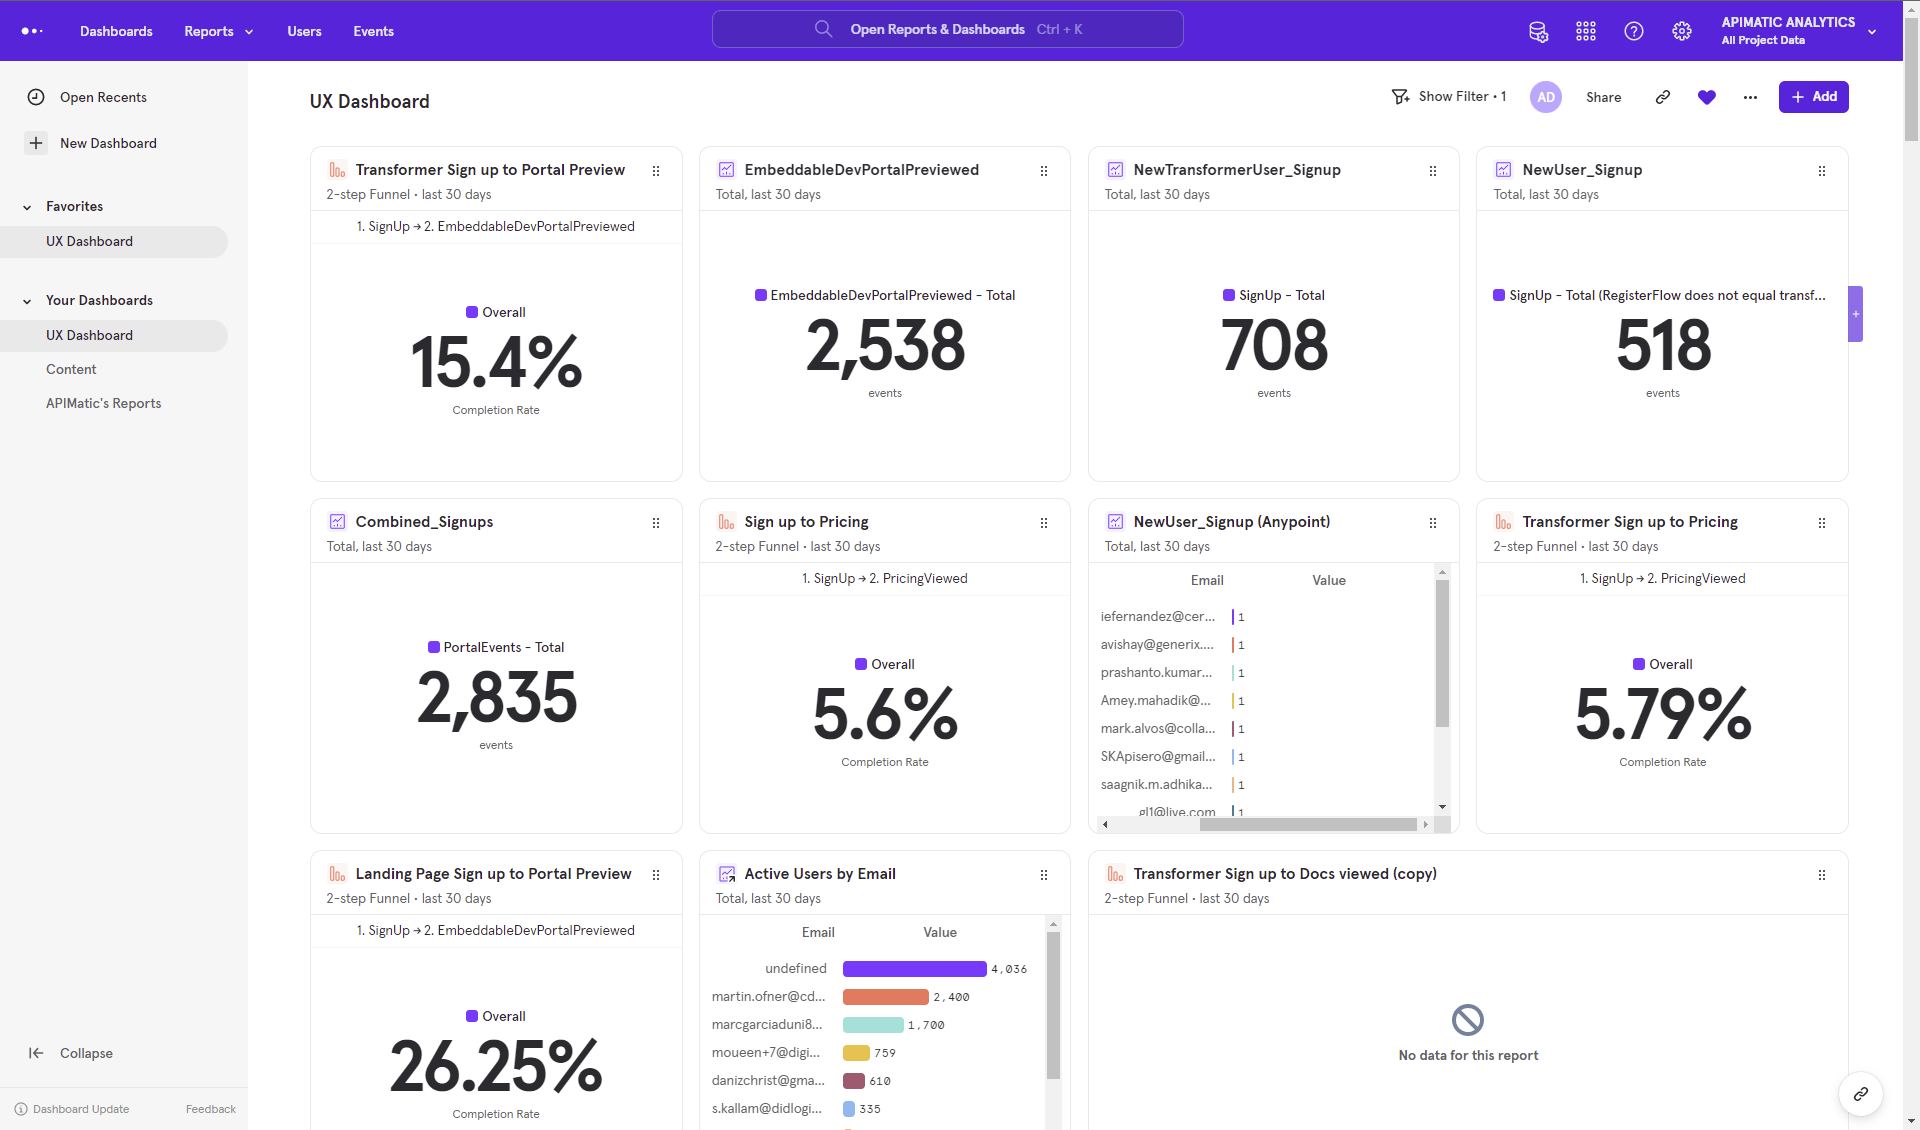
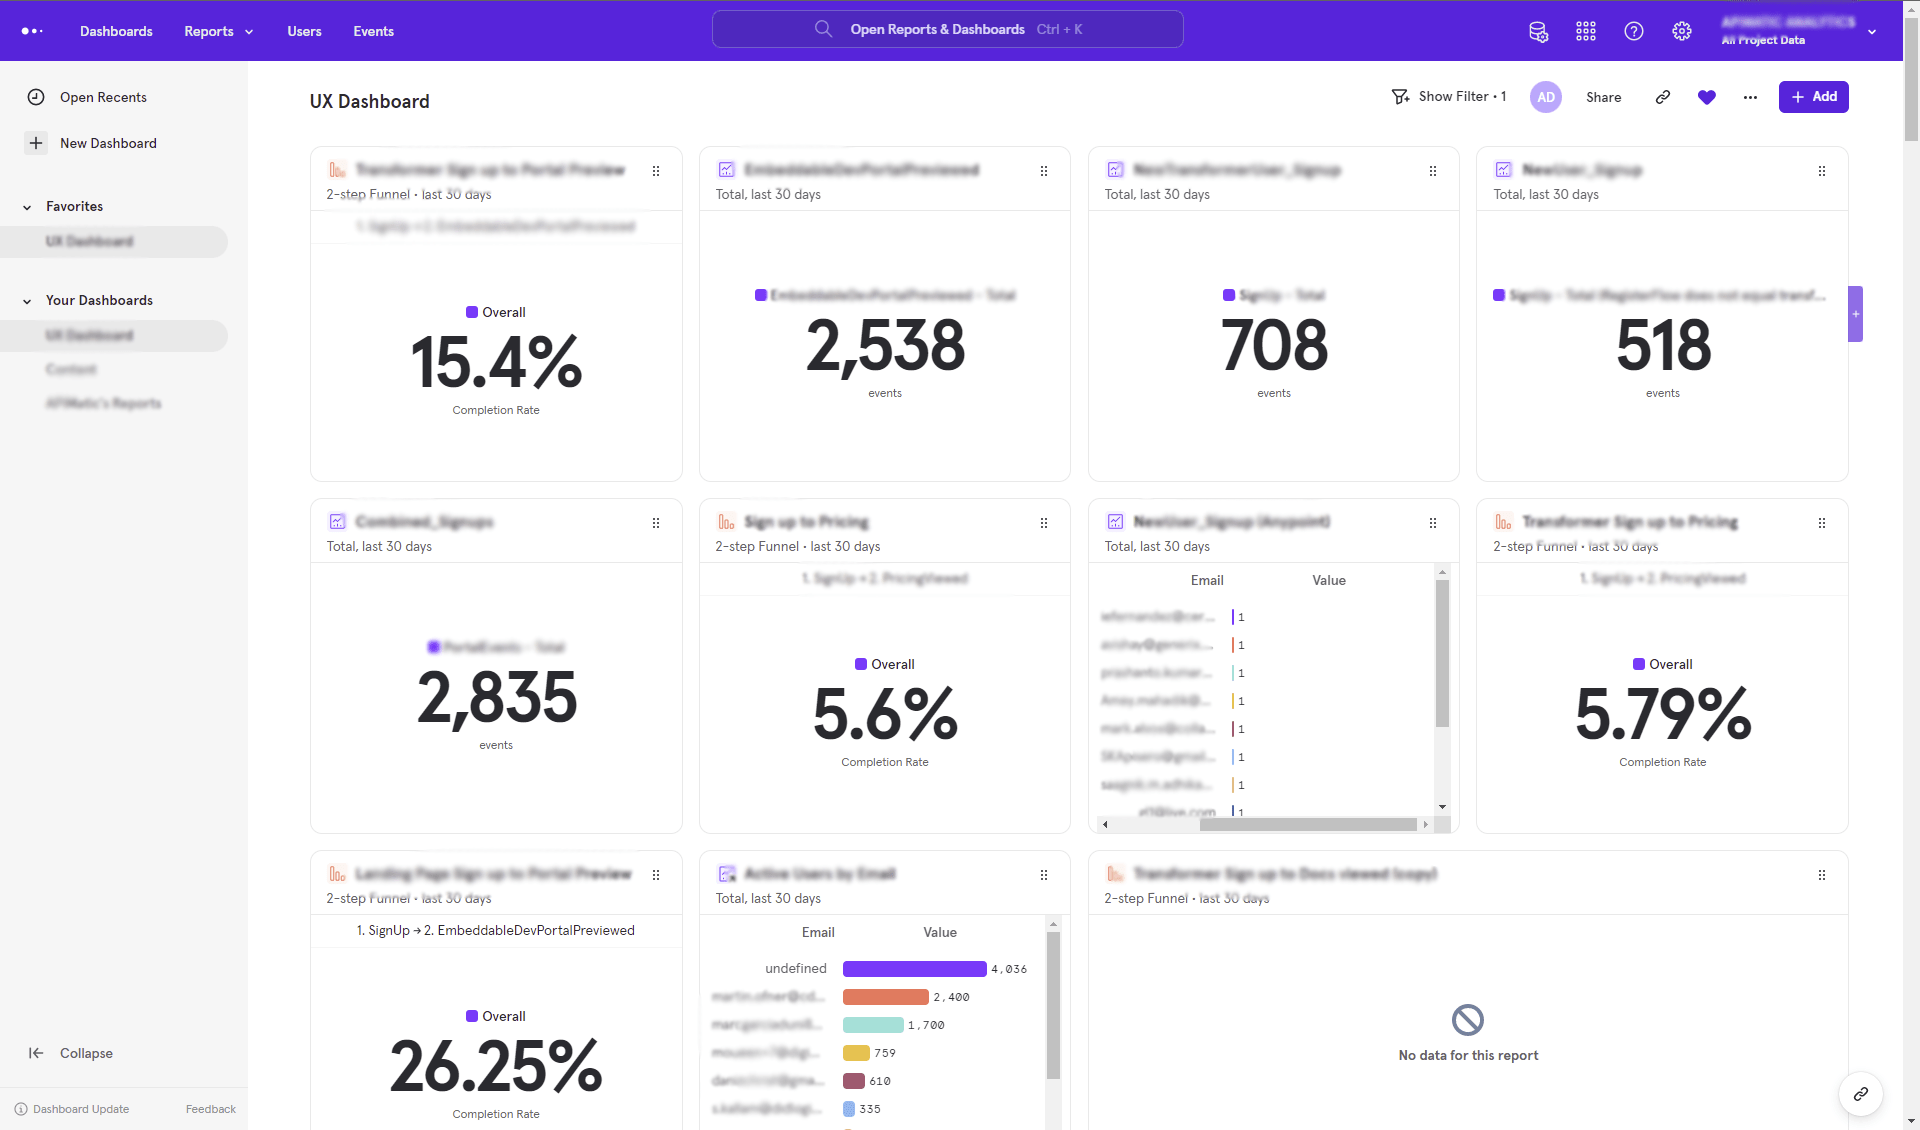
removed confidential data apimatic

diff --git a/apimatic.html b/apimatic.html
@@ -252,16 +252,7 @@
           <div class="title-line "></div>
           <p>In the initial stages, I utilized a mind map to brainstorm and organize ideas, features, and functionalities, providing a clear, visual structure for the product's scope. Subsequently, I developed user flows to detail the sequential steps users take to accomplish specific tasks within the platform. This method ensured a user-centered design approach, mapping out the user journey and interactions effectively.</p>
         </div>
-        <div class="container">
-          <div class="card-shadow">
-            <div class="carousel mt-4" data-flickity='{ "imagesLoaded": true, "percentPosition": false, "autoPlay": true}'>
-              <img src="assets/img/artwork/research/7.png" />
-              <img src="assets/img/artwork/research/8.png" />
-            </div>
-          </div>
-          <br>
-          <br>
-        </div>
+        
       </div>
       <div class="container">
         <h3 class="font-weight-bold p-heads pt-5 ">Journey Mapping</h3>
@@ -269,7 +260,7 @@
         <p>Drawing from in-person feedback, surveys, and reviews, I organized the data into a journey map. This process enabled me to pinpoint pain points and areas for improvement across the journey. Furthermore, it facilitated discussions aimed at understanding knowledge gaps and generating ideas among team members and stakeholders.</p>
       </div>
       <div class="container-med mt-5 text-center">
-        <img src="assets/img/artwork/journey-map-apimatic.svg" width="50%">
+        <img src="assets/img/artwork/journey-map.png" width="50%">
       </div>
       <br>
       <br>
@@ -282,10 +273,8 @@
         <div class="container">
           <div class="card-shadow">
             <div class="carousel mt-4" data-flickity='{ "imagesLoaded": true, "percentPosition": false, "autoPlay": true}'>
-              <img src="assets/img/artwork/design-system/1.webp" />
-              <img src="assets/img/artwork/design-system/2.webp" />
-              <img src="assets/img/artwork/design-system/3.webp" />
-              <img src="assets/img/artwork/design-system/4.webp" />
+              <img src="assets/img/artwork/design-system/1.jpg" />
+            
             </div>
           </div>
         </div>
@@ -316,9 +305,7 @@
           <div class="title-line "></div>
           <p>When users sign up on the APIMatic website, they're prompted to go through a quick walkthrough. However, many users tend to skip this step to quickly dive into the product. To address this, our design and content teams collaborated to develop various email journeys. These journeys deliver customized emails tailored to users' usage patterns and flows, allowing them to learn more about the product at their own pace. Leveraging Autopilot journeys, we meticulously crafted user flows with personalized guides and featured emails to enhance user engagement and understanding. </p>
         </div>
-        <div class="d-flex justify-content-center mt-5 container">
-          <img src="assets/img/artwork/autopilot-emails.png" width="100%">
-        </div>
+        
         <br>
         <br>
         <div class="bg-white pt-5 pb-5">
